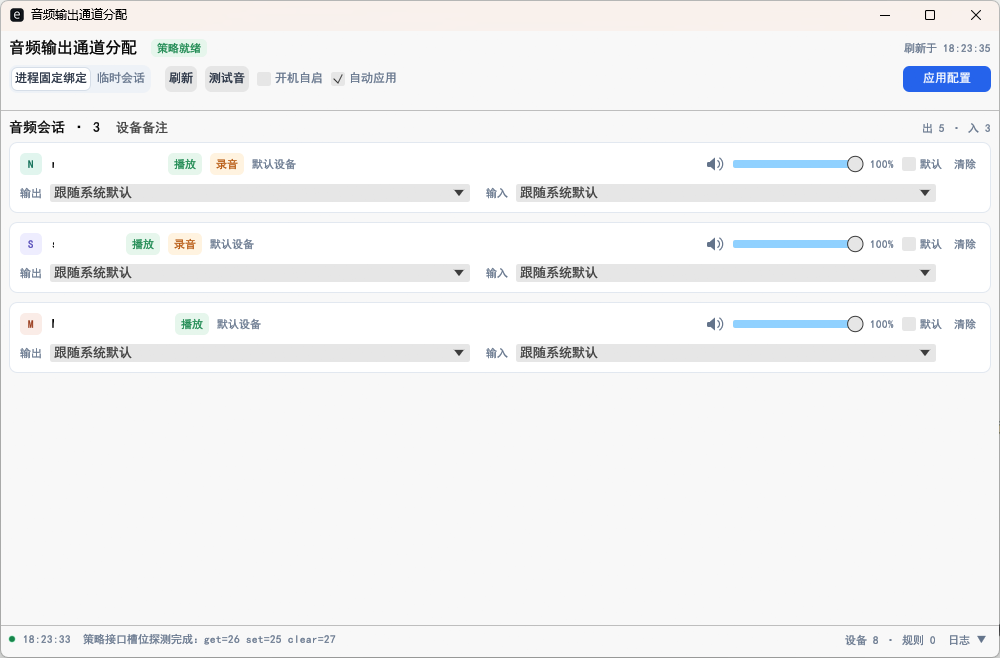
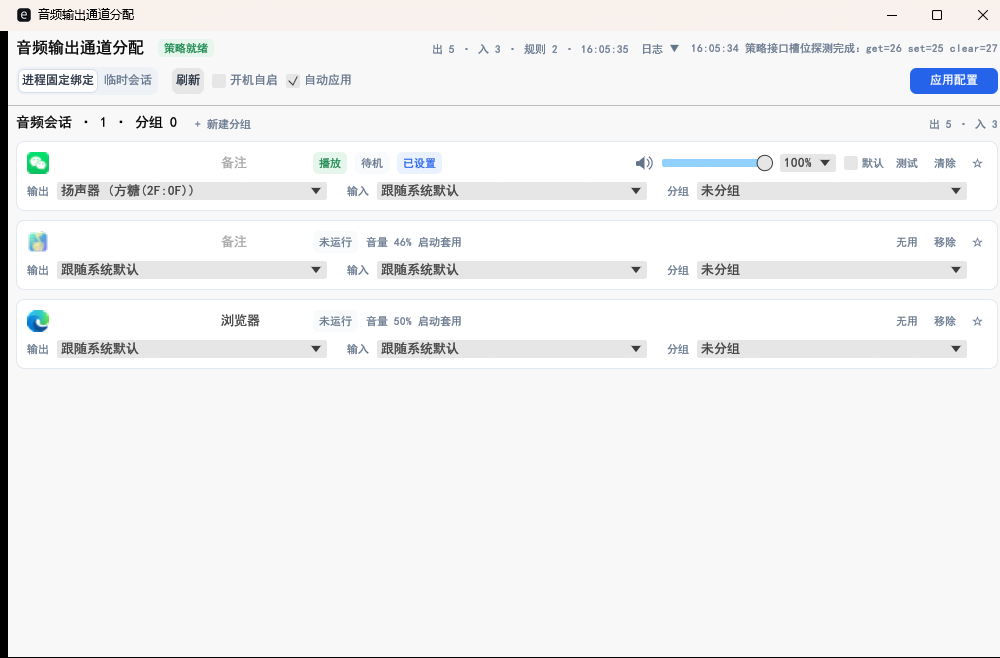
feat: 分组语义重做、条目常驻与无用归档（v0.1.7）

diff --git a/README.md b/README.md
@@ -4,7 +4,7 @@
 
 ![Windows](https://img.shields.io/badge/Windows-10%20%7C%2011-0078D6?logo=windows&logoColor=white)
 ![License](https://img.shields.io/badge/License-MIT-green)
-![Size](https://img.shields.io/badge/exe-3.7%20MB-blue)
+![Size](https://img.shields.io/badge/exe-4.0%20MB-blue)
 
 ![主界面](src/01-overview.png)
 
@@ -20,27 +20,33 @@ Windows 自带的音量合成器只能调整每个应用的音量，不能为不
 
 | 能力 | 说明 |
 | --- | --- |
-| 会话枚举 | 列出正在播放/录音的进程，同一进程合并为一组，区分播放与录音 |
+| 会话枚举 | 列出已建立音频会话的进程（含当前未播放的，以「待机」区分），区分播放与录音 |
 | 独立设备 | 每个进程分别选择输出设备与输入设备，互不影响 |
 | 设备识别 | 自动枚举系统声卡与虚拟声卡（VB-Cable、VoiceMeeter 等），显示设备名称 |
 | 配置持久化 | 自动保存 `进程 → 输入/输出设备 ID` 映射，启动即加载 |
-| 两种模式 | **进程固定绑定**：按 exe 路径长期生效；**临时会话**：只对当前进程生效，重启软件即失效 |
-| 设备备注 | 给设备起别名（如「耳机」「直播虚拟声卡」），下拉框显示备注 + 原始名称 |
+| 两种模式 | **进程固定绑定**：按 exe 路径长期生效；**临时会话**：改动只作用于当前会话，退出程序时还原系统路由 |
+| 会话备注 | 每条会话一个备注，显示在进程名后；设备下拉显示系统原名 |
+| 配置分组 | 「+ 新建分组」建组；在条目卡片的「分组」下拉里把条目加入分组；组内统一输出/输入设备与音量，调节分组音量会同步全部成员 |
+| 条目常驻 | 出现过的应用都保留卡片，进程退出也不会消失；可归入「无用」隐藏，列表头部一键显示 |
+| 会话与分组置顶 | 会话用 ☆/★ 置顶并优先排序，分组可置顶显示、折叠收起 |
 | 音量控制 | 每个应用一条独立音量滑块，调用 `ISimpleAudioVolume`，与系统音量合成器是同一份状态，不会出现两套音量 |
+| 音量档位 | 0%~100% 档位下拉（10% 步进）快速切换，滑块用于微调 |
 | 一键静音 | 点击喇叭图标立即闭麦 / 恢复，不必进系统音量混合器 |
 | 音量固化 | 勾选「默认」把当前音量写入配置，下次启动或会话重建时自动套用 |
-| 托盘常驻 | 关闭窗口收进托盘，程序继续在后台生效；右键菜单：打开窗口、应用配置、退出 |
+| 托盘常驻 | 关闭窗口收进托盘；右键菜单：打开窗口、应用配置、退出；双击图标直接打开主窗口 |
 | 严格单实例 | 再次双击 exe 只会把已运行实例的窗口调回前台，不会启动第二份进程，也不会重复索取权限 |
 | 开机自启 | 界面开关控制，写入 `HKCU\Software\Microsoft\Windows\CurrentVersion\Run` |
-| 测试播放 | 向选中设备播放 440 Hz 短音，验证设备是否可用 |
-| 日志面板 | 记录策略下发、接口探测、错误码，出问题时可直接定位 |
+| 测试播放 | 每个会话与每个分组各有测试音按钮，向对应输出设备播放 440 Hz 短音，播放后显示目标设备名 |
+| 应用图标 | 从进程 exe 提取真实图标显示在会话卡片上，提取失败回退首字母 |
+| 权限模式 | 默认提权的完整模式；托盘勾选「仅音量模式」后重启不再提权，仅音量控制可用 |
+| 日志面板 | 顶部按钮弹出浮层，按「总 / 信息 / 警告 / 错误」标签分流，记录策略下发、接口探测、错误码 |
 
 ## 下载与运行
 
 从 [Releases](../../releases/latest) 下载 `audio-route-assign.exe`，双击运行。
 
 - 单文件，下载即用，无需安装
-- 启动会弹出 UAC：修改系统音频策略需要管理员权限
+- 启动会弹出 UAC：修改系统音频策略需要管理员权限；不需要路由时可在托盘勾选「仅音量模式」，重启后不再提权
 - 程序同一时刻只保留一份：已在运行时再次双击，只会唤出原窗口，不会新开进程、也不会再弹 UAC
 - 配置文件：`%LOCALAPPDATA%\AudioRouteAssign\config.json`
 - 启动日志：`%LOCALAPPDATA%\AudioRouteAssign\startup.log`
@@ -48,12 +54,13 @@ Windows 自带的音量合成器只能调整每个应用的音量，不能为不
 ## 使用流程
 
 1. 启动程序并确认 UAC 提权
-2. 在「音频会话」中找到目标进程（如 `QQ.exe`）
+2. 在「音频会话」中找到目标进程（如 `QQ.exe`），未出声但已建立会话的程序会以「待机」显示
 3. 在「输出」下拉框选择目标声卡；需要录音应用时同样设置「输入」
 4. 点击「应用配置」写入系统策略
 5. 需要调音量时拖右侧滑块，点喇叭图标可一键静音；勾选「默认」则把该音量记入配置
 6. 若该应用已在运行，多数情况下需要重启该应用才会重建音频会话并切到新设备
-7. 需要长期生效时切到「进程固定绑定」模式；只想临时调整就留在「临时会话」
+7. 需要长期生效时切到「进程固定绑定」模式；只想临时调整就留在「临时会话」——退出程序时会自动还原路由
+8. 多个程序要统一设置时，点「+ 新建分组」建组，再在每个程序卡片的「分组」下拉里选择该组；分组卡片上的设备与音量会作用于全部成员
 
 ## 工作原理
 
